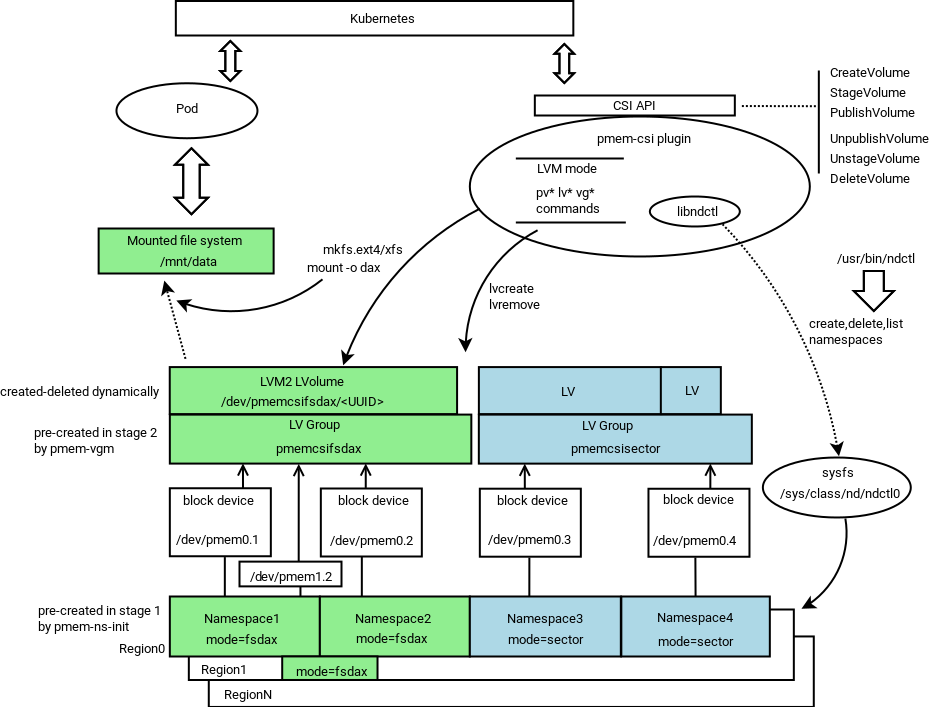
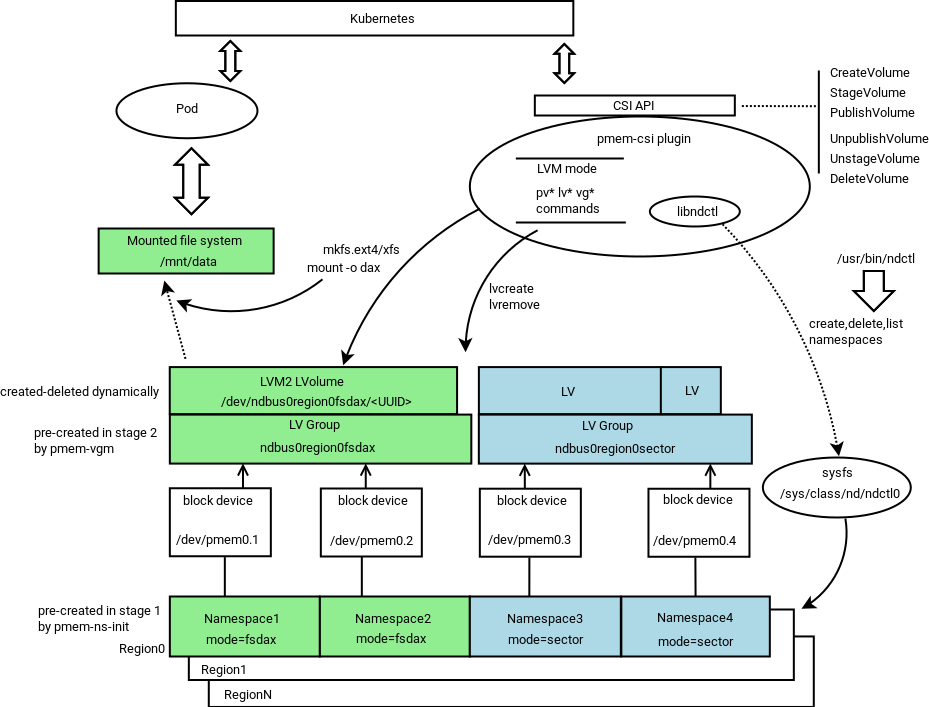
README.md: Documentation updates
Fixed LVM2 mode diagram not to advertise multi-region LV grouping,
also removed incorrect sentence about larger-than-region volume.
Minor updates/fixes to versions, IP addresses.

diff --git a/README.md b/README.md
@@ -36,10 +36,6 @@ The following diagram illustrates the operation in DeviceMode:LVM:
 
 In DeviceMode:LVM PMEM-CSI driver uses LVM for Logical Volumes Management to avoid the risk of fragmentation. The LVM logical volumes are served to satisfy API requests. There is one Volume Group created per Region, ensuring the region-affinity of served volumes.
 
-<!-- this to be used in place of above if/after we change to put multiple regions in one VGroup:
-One Volume group is created per Namespace Mode, combining Phys.Volumes from all Regions. This allows one provisioned Volume to be larger than one Region, which is not possible in DeviceMode:direct.
--->
-
 The driver consists of three separate binaries that form two initialization stages and a third API-serving stage.
 
 During startup, the driver scans persistent memory for regions and namespaces, and tries to create more namespaces using all or part (selectable via option) of the remaining available space. The namespace size can be specified as a driver parameter and defaults to 32 GB. This first stage is performed by a separate entity _pmem-ns-init_.
@@ -61,7 +57,7 @@ The PMEM-CSI driver can leave space on devices for others, and recognize "own" n
 The following diagram illustrates the operation in DeviceMode:Direct:
 ![devicemode-direct diagram](/docs/images/devicemodes/pmem-csi-direct.png)
 
-In DeviceMode:Direct PMEM-CSI driver allocates Namespaces directly from the storage device. This creates device space fragmentation risk, but reduces complexity and run-time overhead by avoiding additional device mapping layer. Direct mode also ensures the region-affinity of served volumes, because provisioned volume can belong to one Region only. In Direct mode, one provisioned volume can be larger than one Namespace on the device. 
+In DeviceMode:Direct PMEM-CSI driver allocates Namespaces directly from the storage device. This creates device space fragmentation risk, but reduces complexity and run-time overhead by avoiding additional device mapping layer. Direct mode also ensures the region-affinity of served volumes, because provisioned volume can belong to one Region only.
 
 In Direct mode, the two preparation stages used in LVM mode, are not needed.
 
@@ -145,8 +141,8 @@ The following diagram illustrates how the PMEM-CSI driver performs dynamic volum
 
 Building has been verified using these components:
 
-- Go: version 1.10.1
-- [ndctl](https://github.com/pmem/ndctl) version 62, built on dev.host via autogen, configure, make, and install as per instruction in README.md
+- Go: version 1.10.1 (go 1.11 is required for 'make test`)
+- [ndctl](https://github.com/pmem/ndctl) versions 62..64, either built on dev.host via autogen, configure, make, and install as per instruction in README.md, or installed as ndctl package(s) from distribution repository.
 
 Building of Docker images has an additional requirement:
 
@@ -366,8 +362,8 @@ moment, the test setup uses:
 
 - `pmemtap0/1/2/3`
 - `pmembr0`
-- 192.168.7.1 for the build host side of the bridge interfaces
-- 192.168.7.2/4/6/8 for the virtual machines
+- 192.168.8.1 for the build host side of the bridge interfaces
+- 192.168.8.2/4/6/8 for the virtual machines
 - the same DNS server for the virtual machines as on the development
   host
 
